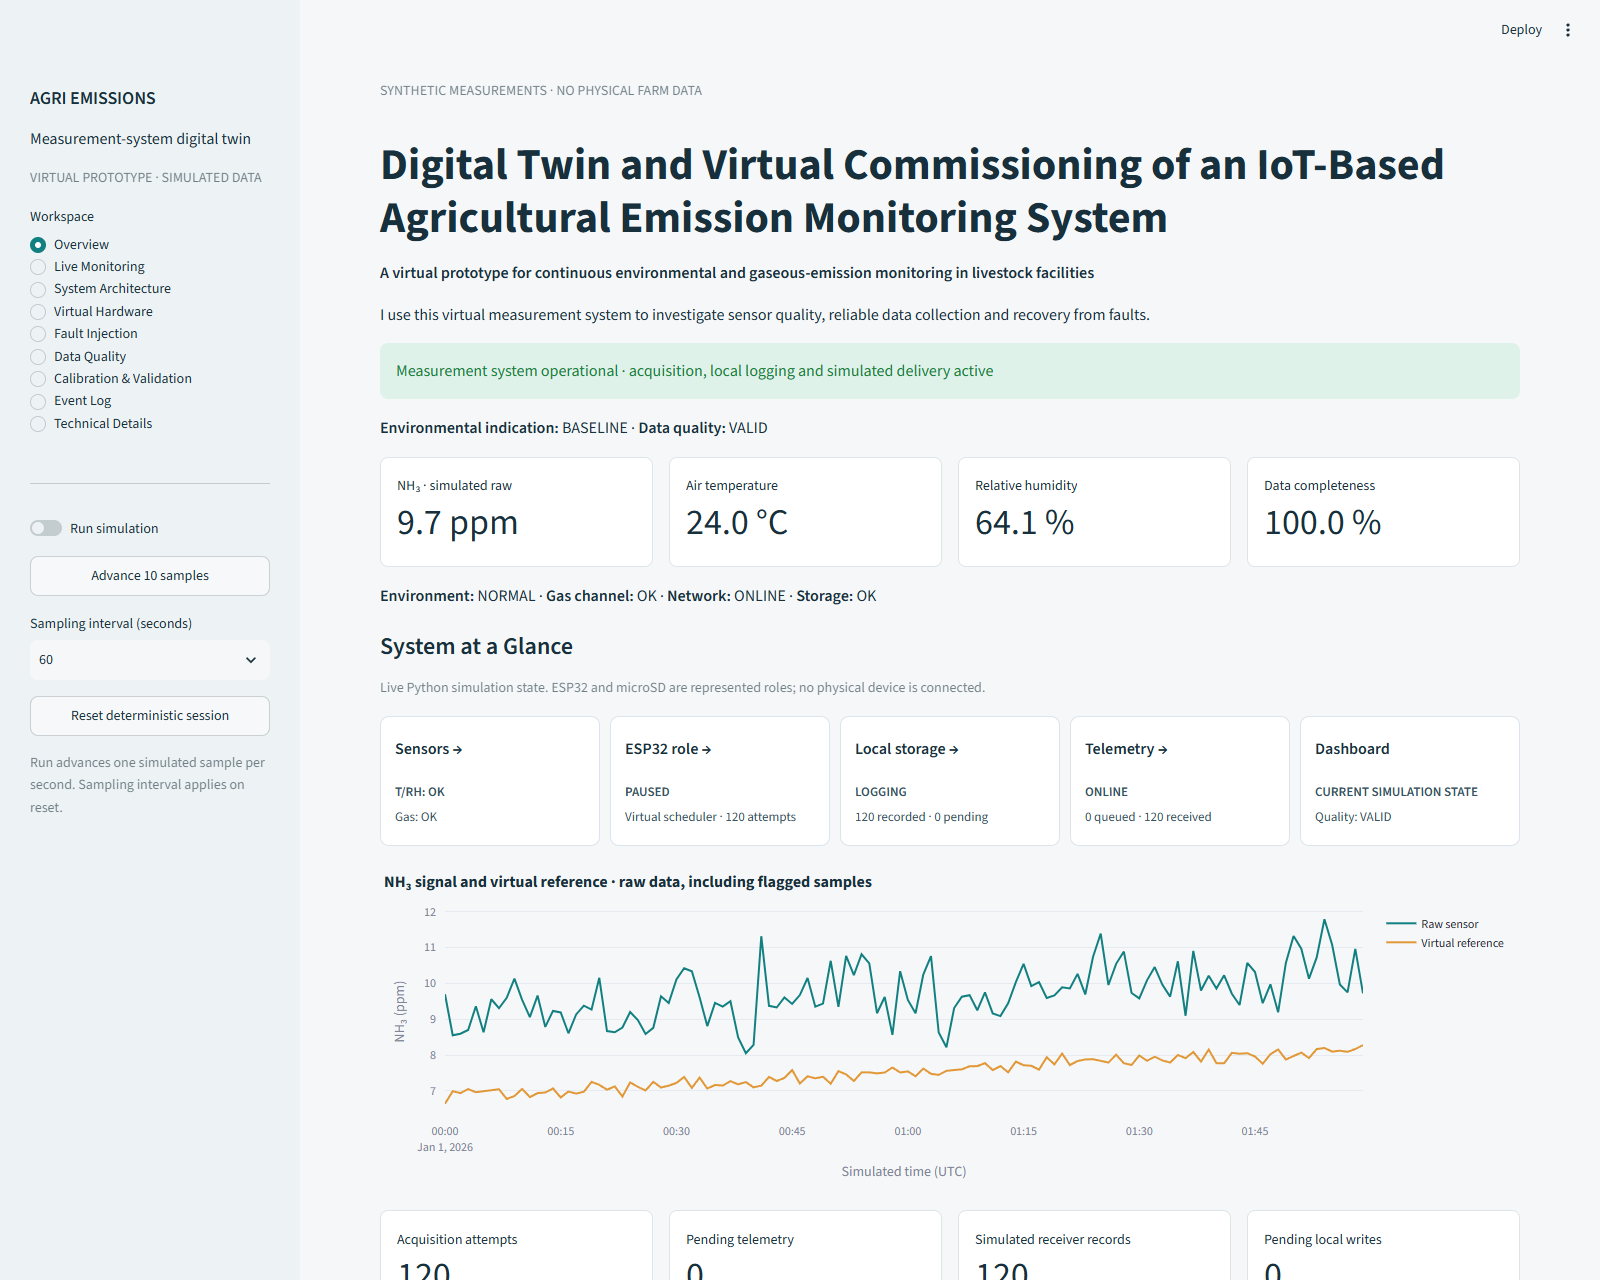
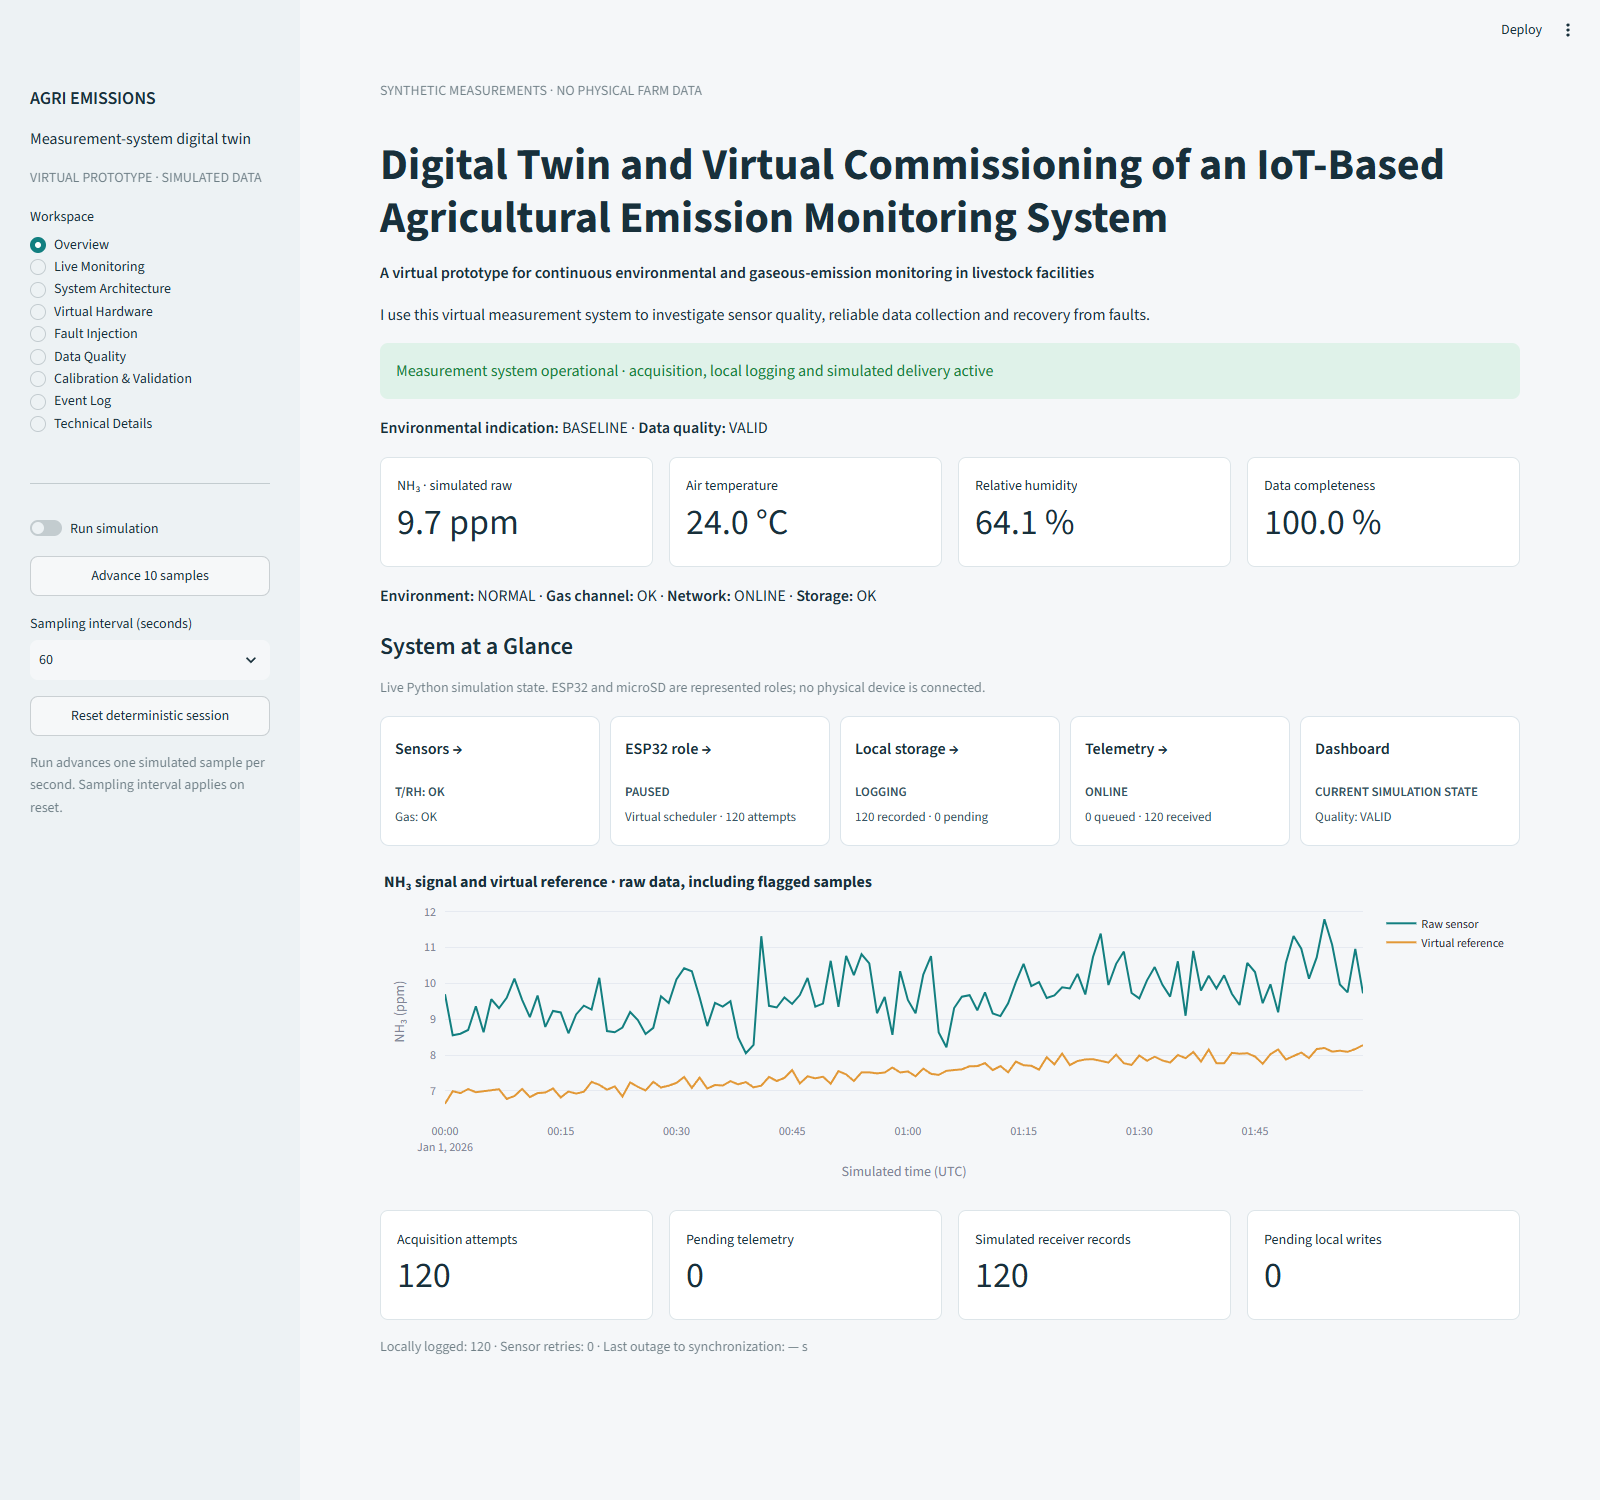
Record visual rendering checks and refresh full dashboard previews

diff --git a/docs/verification.md b/docs/verification.md
@@ -47,3 +47,6 @@ Python pending queues are volatile and CSV is not automatically replayed after r
 - README and hardware-reference image paths were checked on disk. Updated Overview and Hardware-page screenshots are actual local dashboard captures in `docs/figures/`.
 - A Wokwi browser upload was retried. The session again produced a React error and a 401 resource response without observable runtime/serial output. No `wokwi_runtime.png` is included or claimed.
 - The firmware and scientific model were not modified by this visual revision. Earlier build and CI evidence above refers to the named tested implementation, not a new physical test.
+
+- After publication, GitHub's rendered README loaded all three landing images, and the hardware-reference page rendered all four SVGs with nonzero natural dimensions. Images were inspected through the actual GitHub pages, not only local previews.
+- GitHub Actions [run 34189586376](https://github.com/Rz-C137/agri-emissions-iot-digital-twin/actions/runs/34189586376) completed successfully for visual implementation commit `6ec4b96`: both Python and firmware jobs passed. A later evidence/screenshot-only commit records these observations.
